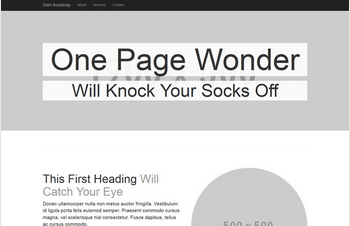
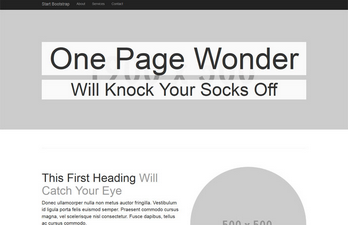
Changed how templates are shown on mash-route

diff --git a/static/style.css b/static/style.css
@@ -1,5 +1,9 @@
-body{
+@import url(http://fonts.googleapis.com/css?family=Montserrat:400,700);
+@import url(http://fonts.googleapis.com/css?family=Muli:300,400);
+@import url(http://fonts.googleapis.com/css?family=Architects+Daughter);
 
+body{
+	background-color: #ccc;
 }
 
 /*Styles for API-doc*/
@@ -139,7 +143,7 @@ input[type=text]{
 
 }
 
-#colors_choice, #font_choice, #template_choice{
+#colors_choice, #font_choice{
 	background-color: #aaa;
 	width:100%;
 	height:400px;
@@ -193,15 +197,66 @@ input[type=text]{
 
 }
 
-#template_one{
+#template_choice{
+	
+	width:70%;
 	margin:0 auto;
-	width:75%;
-	content: url('img/template_one.png') no-repeat;
-	margin-bottom: 5%;
+}
+
+#template_choice h1{
+	font-family: 'Architects Daughter';
+	font-size: 3em;
+	height:65px;
+	margin:9% 0% 2% 5%;
+	
+}
+
+#template_choice h2{
+	margin: 8% 0% 4% 0%;
+	font-family: 'Montserrat';
+}
+
+#template_choice p{
+	font-family: 'Muli';
+	font-size: 1.15em;
+}
+
+#template_choice button{
+	width:40%;
+	height:40px;
+	border:1px solid #ddd;
+	border-radius: 8px;
+	background-color: #fefefe;
+	margin: 5% 0%;
+	font-family: 'Muli';
+	font-size: 1.2em;
+}
+
+#template_one{
+	background:url('img/crossword.png');
+	margin:0 auto;
+	width:40%;
+	float:left;
+	margin: 0 5%;
+	border:1px solid #ccc;
+	text-align: center;
+	border-radius: 5px;
+}
+
+#template_one img, #template_two img{
+	margin:1.5%;
+	width:97%;
+	border:1px solid #ddd;
 }
 
 #template_two{
+	background:url('img/crossword.png');
 	margin:0 auto;
-	width:75%;
-	content: url('img/template_two.png') no-repeat;
+	width:40%;
+	float:left;
+	margin:0% 5%;
+	border:1px solid #ccc;
+	text-align: center;
+	border-radius: 5px;
+
 }

diff --git a/static/script.js b/static/script.js
@@ -9,13 +9,15 @@ $(document).ready(function(){
 
   //*------------- LOADING OF TEMPLATES --------------
   //*
-  $('#template_one').bind('click', function(){
+  $('#temp_one').bind('click', function(){
     $('#template').load('views/template_one.tpl'); 
+    $('#dashboard').css({'display': 'block'});
 
   });
 
-  $('#template_two').bind('click', function(){
+  $('#temp_two').bind('click', function(){
     $('#template').load('views/template_two.tpl');
+    $('#dashboard').css({'display': 'block'});
 
   });
 
